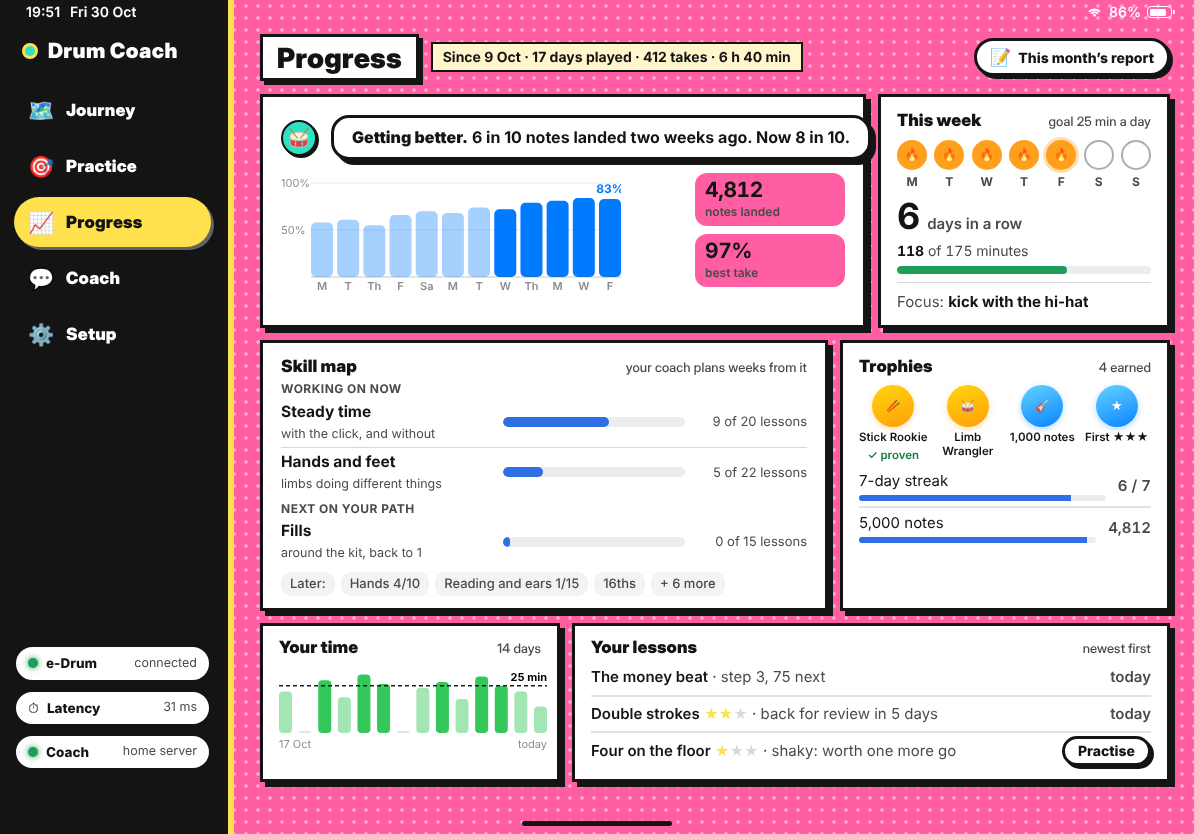
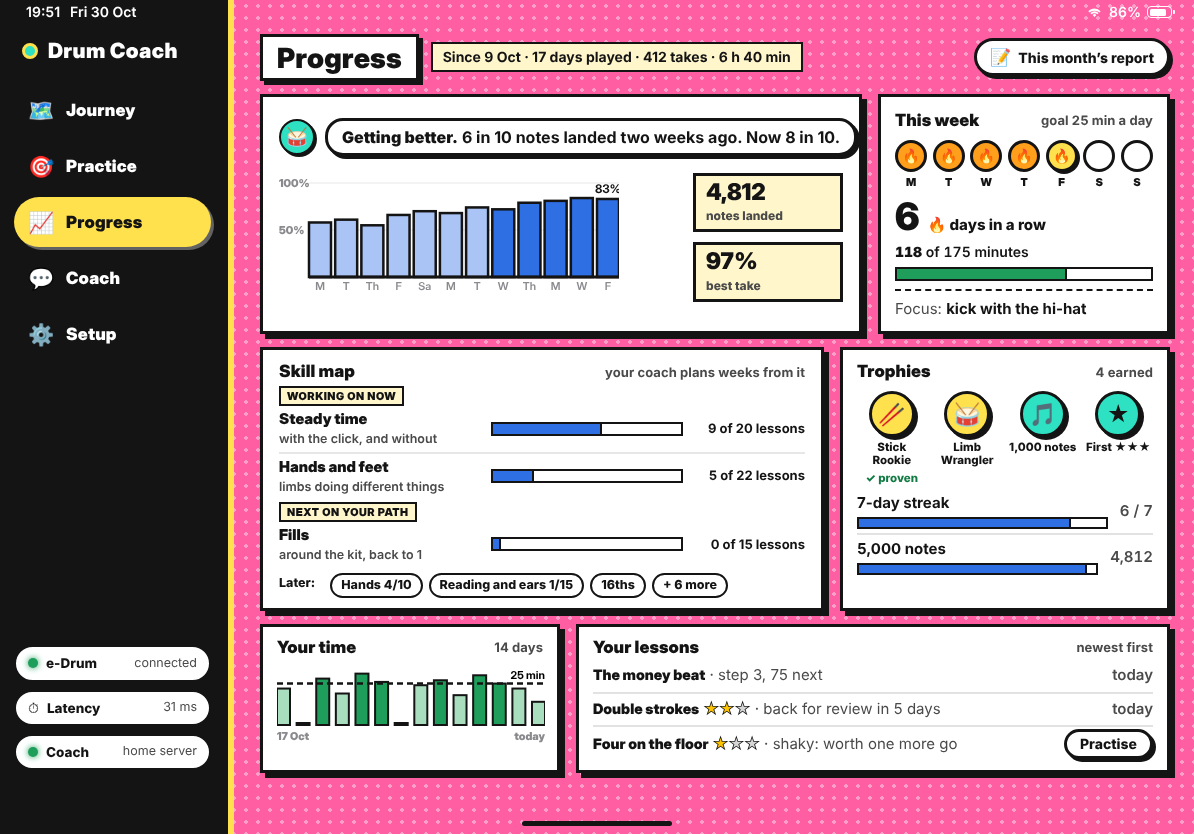
iPad mockups, web look: Progress
Claude-Session: https://claude.ai/code/session_012qCzBwXtPvMyyk6zKAziwn

diff --git a/docs/mockups/ipad/progress.html b/docs/mockups/ipad/progress.html
@@ -6,59 +6,56 @@
 <title>Progress · iPad mockup</title>
 <link rel="stylesheet" href="ipad.css">
 <style>
-  .grid { display: grid; grid-template-columns: minmax(0, 1fr) 292px; gap: 12px; }
-  .better { padding: 14px 18px; display: grid; grid-template-columns: minmax(0, 1fr) 150px; gap: 8px 16px; }
-  .better .coach { grid-column: 1 / -1; }
-  .better .coach p { font-size: 16px; white-space: nowrap; }
-  .tiles { display: flex; flex-direction: column; gap: 8px; }
-  .tiles div { background: var(--bg); border-radius: 12px; padding: 5px 10px; }
-  .tiles b { font-size: 21px; letter-spacing: -.02em; display: block; line-height: 1.1; }
-  .tiles span { white-space: nowrap; font-size: 12px; color: var(--label2); font-weight: 600; }
-  .week { padding: 12px 16px; display: flex; flex-direction: column; gap: 8px; }
+  .grid { display: grid; grid-template-columns: minmax(0, 1fr) 292px; gap: 16px; }
+  .better { padding: 12px 16px; display: grid; grid-template-columns: minmax(0, 1fr) 150px; gap: 8px 16px; }
+  .better .coach { grid-column: 1 / -1; gap: 10px; }
+  .better .coach p { font-size: 16px; white-space: nowrap; padding: 6px 14px; box-shadow: 3px 3px 0 var(--line); }
+  .tiles { display: flex; flex-direction: column; gap: 10px; }
+  .tiles div { background: var(--panel2); border: 3px solid var(--line); padding: 4px 10px; }
+  .tiles b { font: 900 23px/1.1 var(--display); display: block; }
+  .tiles span { white-space: nowrap; font-size: 12px; font-weight: 800; color: var(--muted); }
+  .week { padding: 12px 14px; display: flex; flex-direction: column; gap: 8px; }
   .days { display: flex; justify-content: space-between; }
-  .days div { display: flex; flex-direction: column; align-items: center; gap: 4px; font-size: 12px; font-weight: 700; color: var(--label2); }
-  .days i { width: 30px; height: 30px; border-radius: 50%; box-shadow: inset 0 0 0 2px var(--label3); display: grid; place-items: center; color: #fff; }
-  .days i.on { background: var(--orange); box-shadow: none; }
-  .days i.today { box-shadow: 0 0 0 3px rgba(255,149,0,.3); }
-  .days i .ic { width: 15px; height: 15px; }
+  .days div { display: flex; flex-direction: column; align-items: center; gap: 3px; font: 900 11px var(--display); }
+  .days i { width: 32px; height: 32px; border-radius: 50%; border: 3px solid var(--line); display: grid; place-items: center; font-size: 14px; font-style: normal; background: var(--panel); }
+  .days i.on { background: var(--orange); }
+  .days i.today { background: var(--pop); box-shadow: 2px 2px 0 var(--line); }
   .streak { display: flex; align-items: baseline; gap: 8px; }
-  .streak b { font-size: 36px; letter-spacing: -.03em; line-height: 1; }
-  .streak span { font-size: 15px; color: var(--label2); font-weight: 600; }
-  .mbar { height: 8px; border-radius: 4px; background: var(--fill); overflow: hidden; }
-  .mbar i { display: block; height: 100%; width: 75%; background: var(--green); border-radius: 4px; }
-  .week .small { font-size: 14px; color: var(--label2); }
-  .week .focus { font-size: 15px; border-top: .5px solid var(--sep); padding-top: 9px; }
-  .row2 { display: grid; grid-template-columns: minmax(0, 1fr) 330px; gap: 12px; margin-top: 12px; }
-  .skills { padding: 12px 18px; }
-  .sk { display: grid; grid-template-columns: 210px minmax(0, 1fr) 110px; gap: 12px; align-items: center; padding: 4px 0; }
-  .sk small { white-space: nowrap; }
-  .sk + .sk { border-top: .5px solid var(--sep); }
-  .sk b { font-size: 15.5px; display: block; }
-  .sk small { font-size: 12.5px; color: var(--label2); }
-  .sk .track { height: 10px; border-radius: 5px; background: var(--fill); overflow: hidden; }
-  .sk .track i { display: block; height: 100%; border-radius: 5px; background: var(--tint); }
-  .sk .n { font-size: 13px; color: var(--label2); text-align: right; }
-  .gh { font-size: 12px; font-weight: 700; color: var(--label2); letter-spacing: .04em; text-transform: uppercase; margin: 4px 0 0; }
+  .streak b { font: 900 38px/1 var(--display); }
+  .streak span { font-size: 15px; font-weight: 800; }
+  .mbar { height: 14px; border: 2px solid var(--line); background: var(--panel); }
+  .mbar i { display: block; height: 100%; background: var(--good); border-right: 2px solid var(--line); }
+  .week .small { font-size: 14px; font-weight: 600; }
+  .week .focus { font-size: 15px; border-top: 2px dashed var(--line); padding-top: 8px; }
+  .row2 { display: grid; grid-template-columns: minmax(0, 1fr) 330px; gap: 16px; margin-top: 13px; }
+  .skills { padding: 10px 16px; }
+  .sk { display: grid; grid-template-columns: 200px minmax(0, 1fr) 110px; gap: 12px; align-items: center; padding: 3px 0; }
+  .sk + .sk { border-top: 2px solid rgba(20,20,20,.1); }
+  .sk b { font: 900 15px var(--display); display: block; }
+  .sk small { font-size: 12.5px; font-weight: 600; color: var(--muted); white-space: nowrap; }
+  .sk .track { height: 14px; border: 2px solid var(--line); background: var(--panel); }
+  .sk .track i { display: block; height: 100%; background: var(--accent); border-right: 2px solid var(--line); }
+  .sk .n { font-size: 13px; font-weight: 700; text-align: right; }
+  .gh { display: inline-block; font: 900 11px var(--display); letter-spacing: .05em; text-transform: uppercase; margin: 3px 0 0; background: var(--panel2); border: 2px solid var(--line); padding: 1px 6px; }
   .chips { display: flex; flex-wrap: wrap; gap: 6px; margin-top: 6px; }
-  .chips span { font-size: 13px; padding: 3px 9px; border-radius: 10px; background: var(--fill2); color: var(--label2); font-weight: 500; }
-  .tro { padding: 12px 16px; }
+  .chips span { font-size: 12.5px; padding: 2px 9px; border-radius: 999px; border: 2px solid var(--line); background: var(--panel); font-weight: 800; }
+  .chips span:first-child { border: 0; padding-left: 0; }
+  .tro { padding: 10px 14px; }
   .earned { display: flex; gap: 6px; margin: 8px 0 4px; }
-  .earned div { flex: 1; display: flex; flex-direction: column; align-items: center; gap: 4px; text-align: center; font-size: 11.5px; font-weight: 600; line-height: 1.15; }
-  .medal { width: 42px; height: 42px; border-radius: 50%; display: grid; place-items: center; color: #fff; background: linear-gradient(160deg, #FFD60A, #FF9F0A); box-shadow: 0 2px 6px rgba(255,149,0,.3); }
-  .medal .ic { width: 22px; height: 22px; }
-  .medal.b { background: linear-gradient(160deg, #64D2FF, #0A84FF); box-shadow: 0 2px 6px rgba(10,132,255,.3); }
-  .close .li { padding: 5px 0; min-height: 40px; --inset: 0px; font-size: 15px; }
-  .close .li .grow small { margin-top: 3px; }
-  .close .t { height: 6px; border-radius: 3px; background: var(--fill); overflow: hidden; margin-top: 4px; }
-  .close .t i { display: block; height: 100%; background: var(--tint); }
-  .row3 { display: grid; grid-template-columns: 300px minmax(0, 1fr); gap: 12px; margin-top: 12px; }
-  .time, .lessons { padding: 10px 16px; }
-  .lessons .li { padding: 3px 0; min-height: 36px; --inset: 0px; font-size: 15px; }
-  .lessons .li b { font-weight: 600; }
-  .stars { color: var(--yellow); font-size: 14px; }
-  .stars .off { color: rgba(120,120,128,.28); }
-  h3.t { font-size: 17px; display: flex; justify-content: space-between; align-items: baseline; }
-  h3.t span { font-size: 13px; color: var(--label2); font-weight: 500; }
+  .earned div { flex: 1; display: flex; flex-direction: column; align-items: center; gap: 4px; text-align: center; font-size: 11.5px; font-weight: 800; line-height: 1.15; }
+  .medal { width: 46px; height: 46px; border-radius: 50%; display: grid; place-items: center; font-size: 22px; background: var(--pop); border: 3px solid var(--line); box-shadow: 3px 3px 0 var(--line); }
+  .medal.b { background: var(--cyan); }
+  .close .li { padding: 4px 0; min-height: 40px; font-size: 15px; font-weight: 700; }
+  .close .t { height: 12px; border: 2px solid var(--line); background: var(--panel); margin-top: 4px; }
+  .close .t i { display: block; height: 100%; background: var(--accent); border-right: 2px solid var(--line); }
+  .row3 { display: grid; grid-template-columns: 300px minmax(0, 1fr); gap: 16px; margin-top: 13px; }
+  .time, .lessons { padding: 9px 14px; }
+  .lessons .li { padding: 2px 0; min-height: 33px; font-size: 15px; }
+  .lessons .li b { font-weight: 900; font-family: var(--display); font-size: 14.5px; }
+  .stars { color: #FFC400; -webkit-text-stroke: .8px var(--line); font-size: 15px; }
+  .stars .off { color: #D6D6D6; }
+  h3.t { font-size: 17px; display: flex; justify-content: space-between; align-items: center; }
+  h3.t span { font: 700 13px var(--sf); color: var(--muted); }
 </style>
 </head>
 <body>
@@ -100,10 +97,10 @@
       <section class="card week">
         <h3 class="t">This week <span>goal 25 min a day</span></h3>
         <div class="days">
-          <div><i class="on"><span class="em">🔥</span></i>M</div><div><i class="on"><span class="em">🔥</span></i>T</div><div><i class="on"><span class="em">🔥</span></i>W</div>
-          <div><i class="on"><span class="em">🔥</span></i>T</div><div><i class="on today"><span class="em">🔥</span></i>F</div><div><i></i>S</div><div><i></i>S</div>
+          <div><i class="on">🔥</i>M</div><div><i class="on">🔥</i>T</div><div><i class="on">🔥</i>W</div>
+          <div><i class="on">🔥</i>T</div><div><i class="on today">🔥</i>F</div><div><i></i>S</div><div><i></i>S</div>
         </div>
-        <div class="streak"><b class="num">6</b><span>days in a row</span></div>
+        <div class="streak"><b class="num">6</b><span>🔥 days in a row</span></div>
         <div><div class="small num" style="margin-bottom:5px"><b style="color:var(--label)">118</b> of 175 minutes</div><div class="mbar"><i style="width:67%"></i></div></div>
         <div class="focus"><span style="color:var(--label2)">Focus:</span> <b>kick with the hi-hat</b></div>
       </section>
@@ -123,10 +120,10 @@
       <section class="card tro">
         <h3 class="t">Trophies <span>4 earned</span></h3>
         <div class="earned">
-          <div><span class="medal"><span class="em">🥢</span></span>Stick Rookie<span style="color:var(--greenInk)">✓ proven</span></div>
-          <div><span class="medal"><span class="em">🥁</span></span>Limb Wrangler</div>
-          <div><span class="medal b"><span class="em">🎸</span></span>1,000 notes</div>
-          <div><span class="medal b"><span class="em">★</span></span>First ★★★</div>
+          <div><span class="medal">🥢</span>Stick Rookie<span style="color:var(--greenInk)">✓ proven</span></div>
+          <div><span class="medal">🥁</span>Limb Wrangler</div>
+          <div><span class="medal b">🎵</span>1,000 notes</div>
+          <div><span class="medal b">★</span>First ★★★</div>
         </div>
         <div class="close">
           <div class="li"><span class="grow">7-day streak<div class="t"><i style="width:86%"></i></div></span><span class="val num">6 / 7</span></div>
@@ -155,28 +152,28 @@
 const days = [['M', 58], ['T', 61], ['Th', 55], ['F', 66], ['Sa', 70], ['M', 68], ['T', 74], ['W', 72], ['Th', 79], ['M', 81], ['W', 84], ['F', 83]];
 {
   const W = 340, H = 124, b = 20, top = 10, bw = 22, gap = (W - 30 - days.length * bw) / (days.length - 1);
-  let s = `<svg width="${W}" height="${H}" viewBox="0 0 ${W} ${H}" font-family="Inter, sans-serif">`;
+  let s = `<svg width="${W}" height="${H}" viewBox="0 0 ${W} ${H}" font-family='"Arial Black","Inter Display",sans-serif' font-weight="900">`;
   for (const p of [50, 100]) { const y = top + (H - top - b) * (1 - p / 100); s += `<line x1="30" x2="${W}" y1="${y}" y2="${y}" stroke="rgba(60,60,67,.12)"/><text x="0" y="${y + 4}" font-size="11" fill="rgba(60,60,67,.6)">${p}%</text>`; }
   days.forEach(([d, v], i) => {
     const x = 30 + i * (bw + gap), h = (H - top - b) * v / 100, y = H - b - h, last = i >= days.length - 5;
-    s += `<rect x="${x}" y="${y}" width="${bw}" height="${h}" rx="5" fill="${last ? '#007AFF' : 'rgba(0,122,255,.35)'}"/>`;
+    s += `<rect x="${x}" y="${y}" width="${bw}" height="${h}" fill="${last ? '#2F6FE4' : '#A9C4F5'}" stroke="#141414" stroke-width="2.5"/>`;
     s += `<text x="${x + bw / 2}" y="${H - 7}" text-anchor="middle" font-size="11" font-weight="600" fill="rgba(60,60,67,.6)">${d}</text>`;
   });
   const l = days[days.length - 1], lx = 30 + (days.length - 1) * (bw + gap) + bw / 2, ly = H - b - (H - top - b) * l[1] / 100;
-  s += `<text x="${lx}" y="${ly - 6}" text-anchor="middle" font-size="12" font-weight="700" fill="#007AFF">${l[1]}%</text>`;
-  document.getElementById('landed').innerHTML = s + `<line x1="30" x2="${W}" y1="${H - b}" y2="${H - b}" stroke="rgba(60,60,67,.3)"/></svg>`;
+  s += `<text x="${lx}" y="${ly - 6}" text-anchor="middle" font-size="12" font-weight="700" fill="#141414">${l[1]}%</text>`;
+  document.getElementById('landed').innerHTML = s + `<line x1="30" x2="${W}" y1="${H - b}" y2="${H - b}" stroke="#141414" stroke-width="3"/></svg>`;
 }
 // Minutes per day for 14 days, against the daily goal (25).
 const mins = [22, 0, 28, 19, 31, 26, 0, 24, 27, 18, 30, 25, 22, 14];
 {
-  const W = 268, H = 92, b = 18, max = 35, bw = 13, gap = (W - mins.length * bw) / (mins.length - 1);
-  let s = `<svg width="${W}" height="${H}" viewBox="0 0 ${W} ${H}" font-family="Inter, sans-serif">`;
+  const W = 268, H = 84, b = 18, max = 35, bw = 13, gap = (W - mins.length * bw) / (mins.length - 1);
+  let s = `<svg width="${W}" height="${H}" viewBox="0 0 ${W} ${H}" font-family='"Arial Black","Inter Display",sans-serif' font-weight="900">`;
   mins.forEach((m, i) => {
     const x = i * (bw + gap), h = Math.max(2, (H - b - 8) * m / max), y = H - b - h;
-    s += `<rect x="${x}" y="${y}" width="${bw}" height="${h}" rx="4" fill="${m >= 25 ? '#34C759' : m ? 'rgba(52,199,89,.45)' : 'rgba(120,120,128,.2)'}"/>`;
+    s += `<rect x="${x}" y="${y}" width="${bw}" height="${h}" fill="${m >= 25 ? '#1E9E5A' : m ? '#A8DDBE' : '#DDD'}" stroke="#141414" stroke-width="2"/>`;
   });
   const gy = H - b - (H - b - 8) * 25 / max;
-  s += `<line x1="0" x2="${W}" y1="${gy}" y2="${gy}" stroke="#1C1C1E" stroke-width="1.5" stroke-dasharray="4 3"/><text x="${W}" y="${gy - 5}" text-anchor="end" font-size="11" font-weight="700">25 min</text>`;
+  s += `<line x1="0" x2="${W}" y1="${gy}" y2="${gy}" stroke="#141414" stroke-width="2.5" stroke-dasharray="6 4"/><text x="${W}" y="${gy - 5}" text-anchor="end" font-size="11" font-weight="700">25 min</text>`;
   s += `<text x="0" y="${H - 3}" font-size="11" fill="rgba(60,60,67,.6)">17 Oct</text><text x="${W}" y="${H - 3}" text-anchor="end" font-size="11" fill="rgba(60,60,67,.6)">today</text>`;
   document.getElementById('time').innerHTML = s + `</svg>`;
 }
